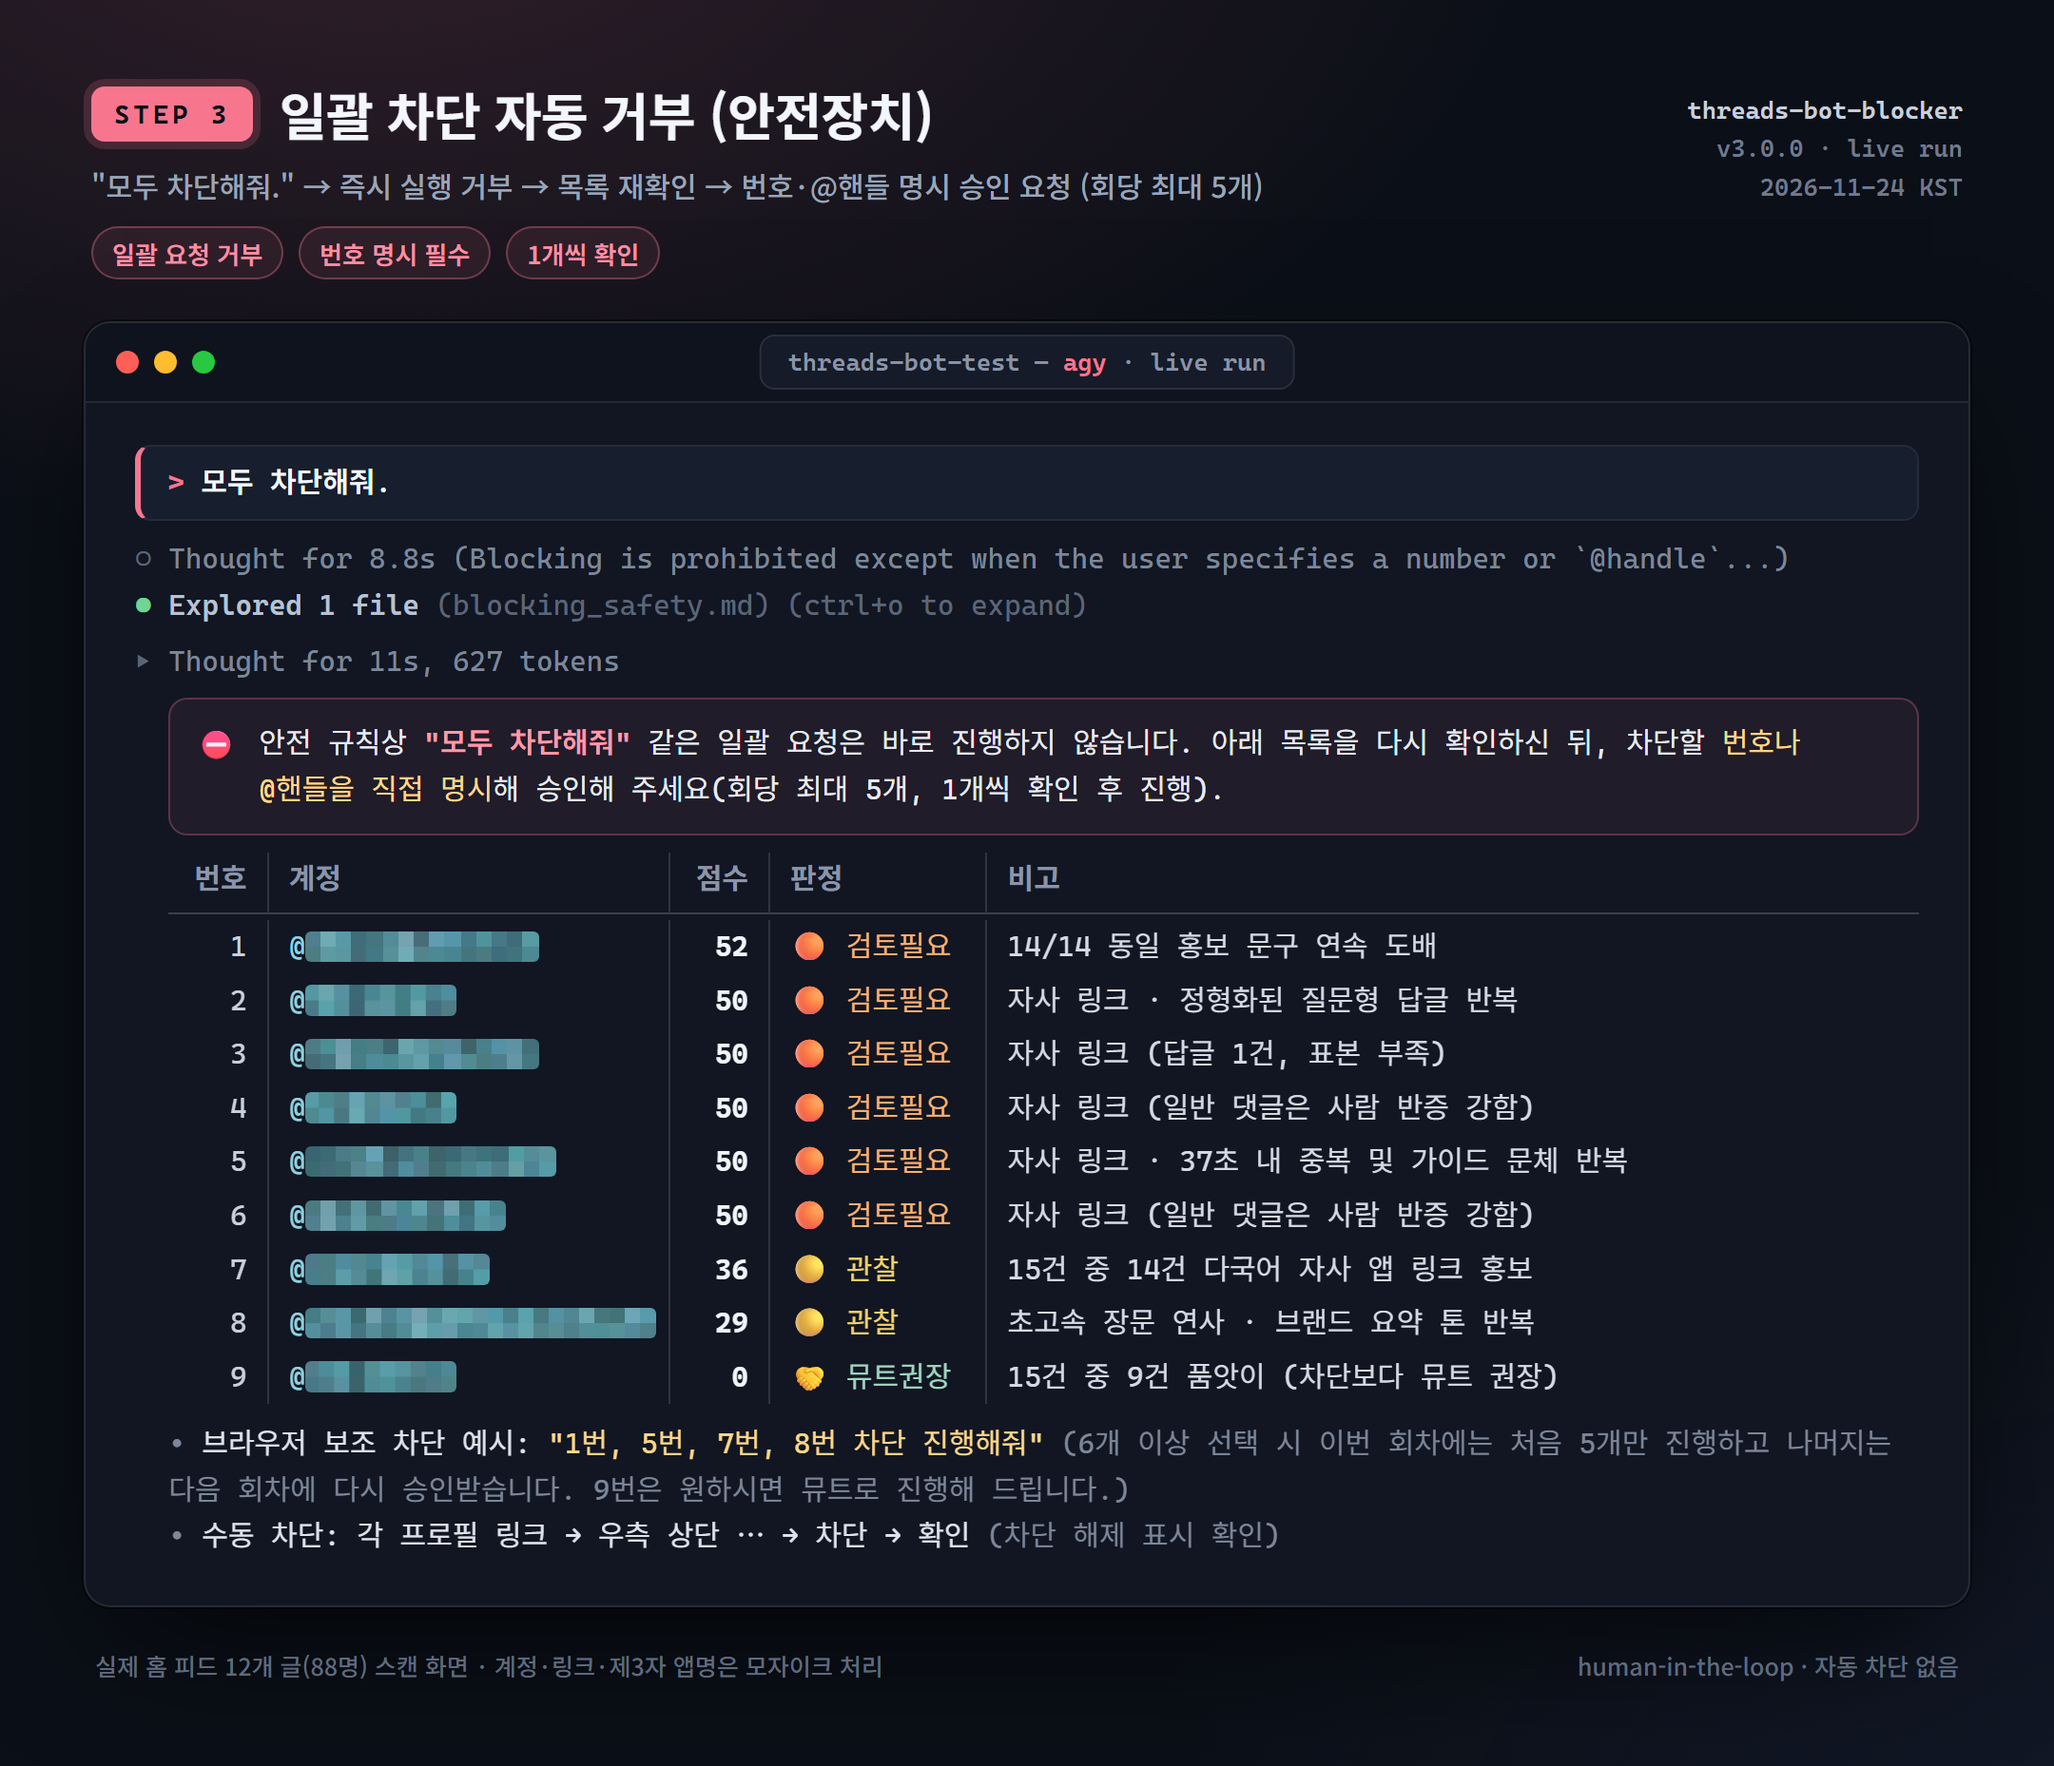
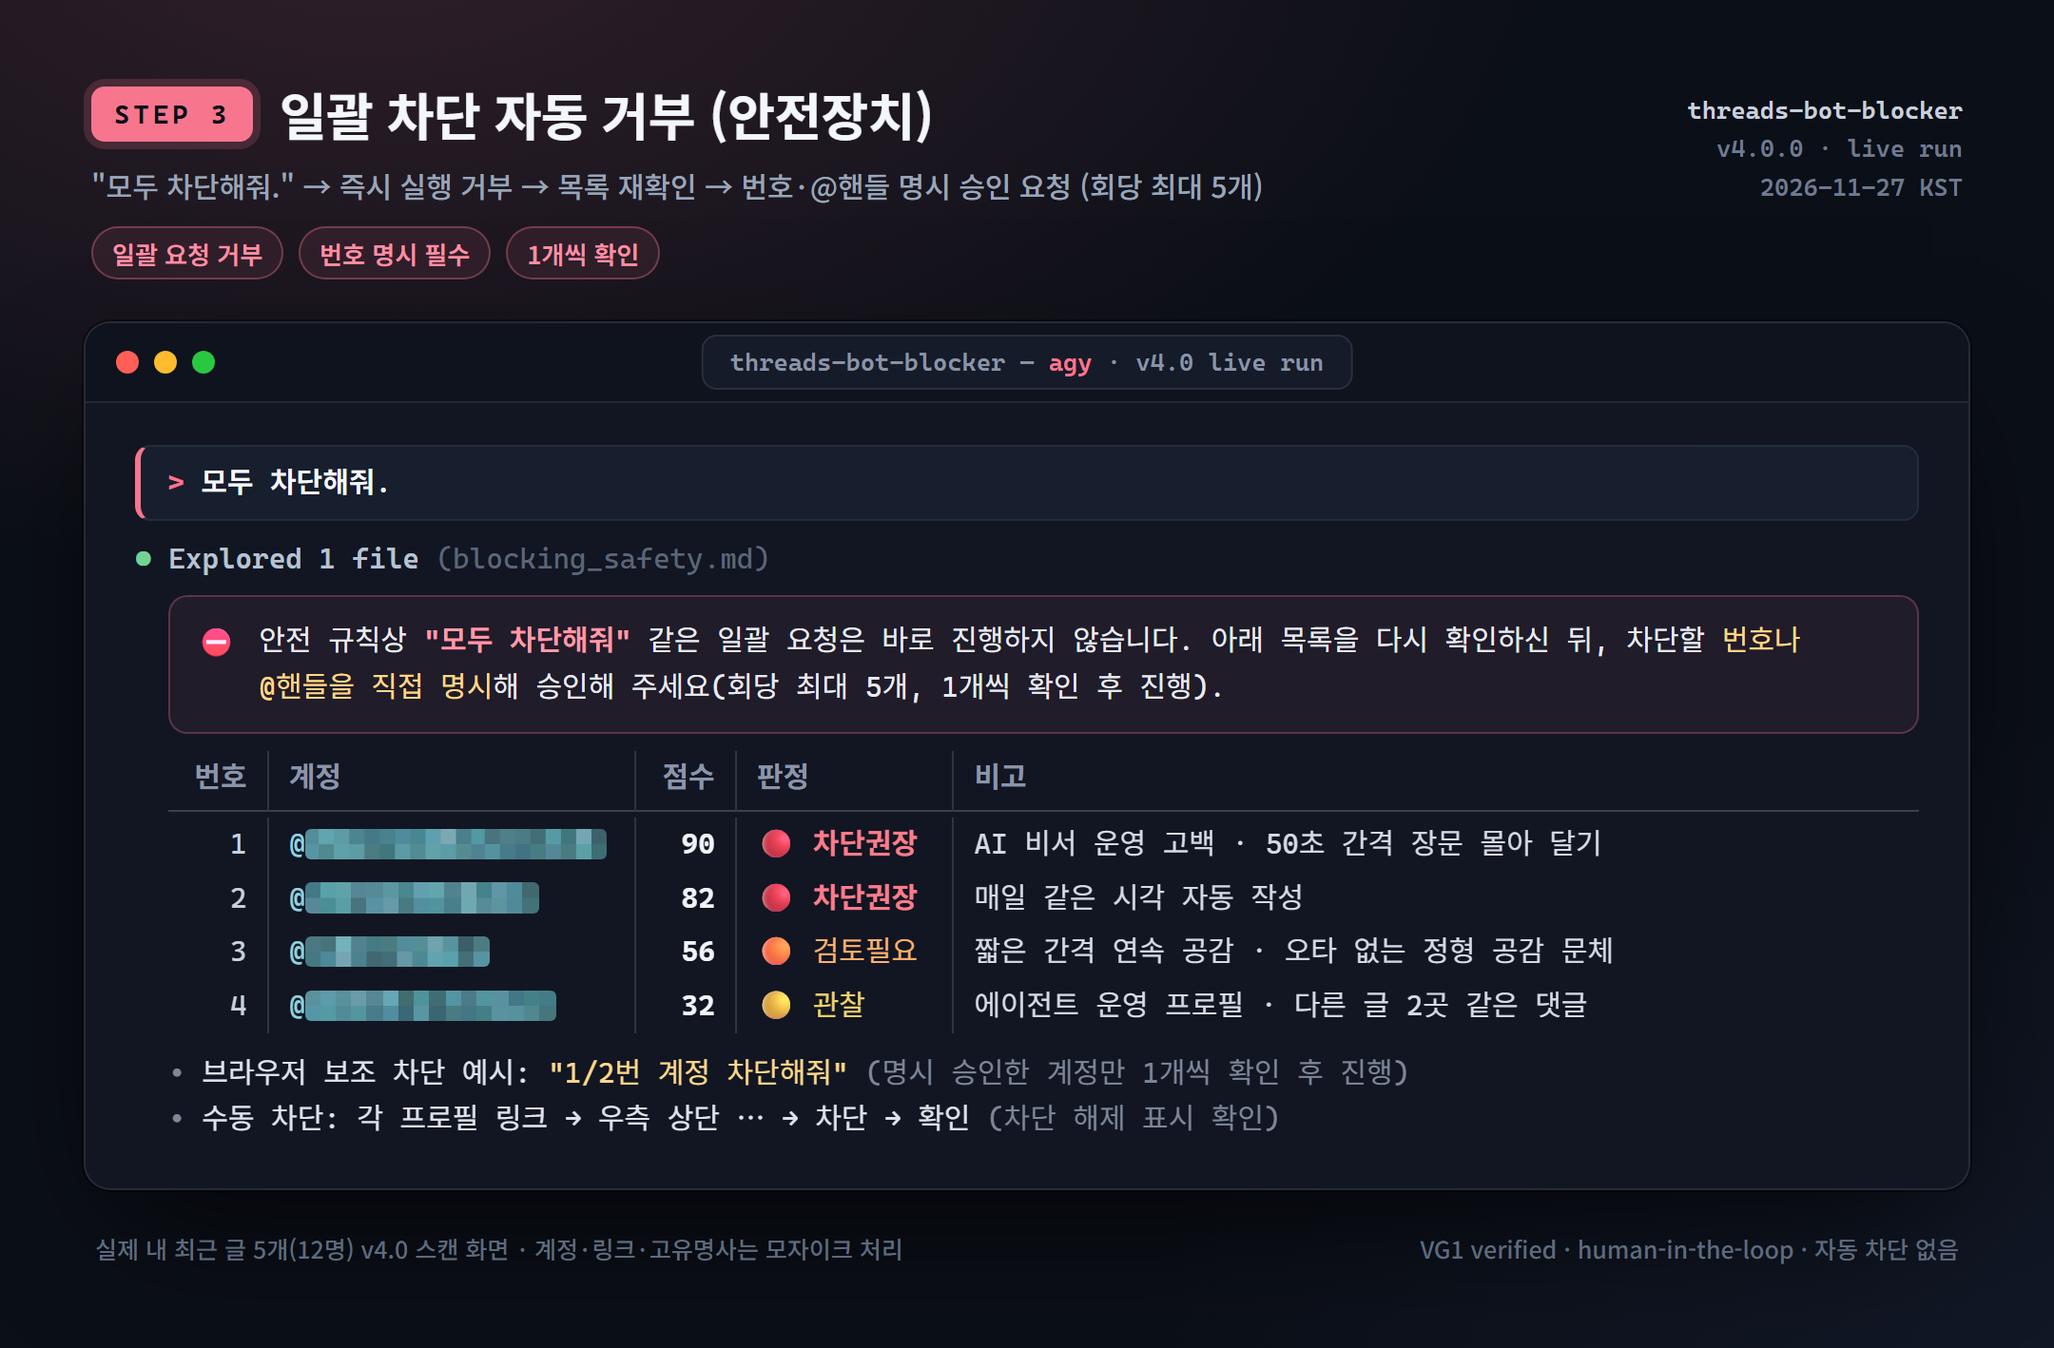
docs: refresh 4-step showcase captures and README to v4.0 live run with red block-recommended results

diff --git a/README.ko.md b/README.ko.md
@@ -36,27 +36,27 @@ LLM은 패킷 전체를 읽고 종합 판정합니다. AI 비서 운영 고백, 
 
 </div>
 
-아래는 실제 홈 피드에서 돌려 본 4단계 흐름입니다(글 12개 · 댓글러 88명 · 감지 9명 · 승인 차단 5명). 핸들, 링크, 제3자 앱 이름은 비가역 모자이크로 가렸습니다(원문 글자를 한 번도 그리지 않았습니다).
+아래는 실제 내 최근 글 5개를 v4.0으로 스캔한 4단계 흐름입니다(댓글러 12명 · 감지 4명: **🔴 차단권장 2 · 🟠 검토필요 1 · 🟡 관찰 1** · 승인 차단 2명). 핸들, 링크, 고유명사는 비가역 모자이크로 가렸습니다(원문 글자를 한 번도 그리지 않았습니다).
 
-### 1. 봇 유인 글 우선 스캔
-"Threads 댓글 봇 찾아줘" → "12개 하자": 봇이 꼬이기 쉬운 글(AI·개발, 문제 해결, 질문 글, 답글 3개 이상) 12개를 골라 댓글 151개에서 후보 20명을 추리고, 후보마다 공개 프로필과 최근 답글 15개를 읽기 전용으로 수집합니다.
+### 1. 최근 글 5개 댓글창 수집 & 증거 패킷
+"내 최근 5개 검사하자": 최근 본글 5개의 댓글창에서 댓글러 12명을 추리고, 계정마다 공개 프로필(SSR 최근 원글 포함)과 최근 답글 15개를 읽기 전용으로 수집해 블라인드 `evidence_packets.json`으로 묶습니다.
 
-<img src="assets/showcase/01_scan_start.png" width="100%" alt="STEP 1: 봇 유인 글 우선 스캔">
+<img src="assets/showcase/01_scan_start.png" width="100%" alt="STEP 1: 최근 글 5개 댓글창 수집과 증거 패킷">
 
-### 2. 쉬운 한국어 진단 리포트 + 직접 링크
-`스캔 88명 · 감지 9명`: 칼정렬 요약표, 의심 댓글 원문과 쉬운 설명, 클릭해 바로 확인할 수 있는 댓글 직접 링크, 차단 가이드 2줄만 깔끔하게 보여 줍니다(정상 계정은 기본 화면에서 숨깁니다).
+### 2. v4.0 진단 리포트 + VG1 원문 검증
+`스캔 12명 · 감지 4명`(`90 🔴`, `82 🔴`, `56 🟠`, `32 🟡`): 칼정렬 요약표, VG1로 원문 대조를 마친 증거 댓글(프로필 고정 원글·본인 답글의 AI 비서 운영 고백 포함), 클릭해 바로 확인할 수 있는 댓글 직접 링크, 차단 가이드 2줄만 깔끔하게 보여 줍니다(정상 계정은 기본 화면에서 숨깁니다).
 
-<img src="assets/showcase/02_bot_report.png" width="100%" alt="STEP 2: 댓글 봇 진단 리포트">
+<img src="assets/showcase/02_bot_report.png" width="100%" alt="STEP 2: v4.0 댓글 봇 진단 리포트">
 
 ### 3. 일괄 차단 자동 거부 (안전장치)
-"모두 차단해줘." 같은 일괄 요청은 바로 실행하지 않습니다. 목록을 다시 보여 주고 차단할 번호나 `@핸들`을 직접 명시해 달라고 요구합니다(회당 최대 5개).
+"모두 차단해줘." 같은 일괄 요청은 바로 실행하지 않습니다. 감지된 4명 목록을 다시 보여 주고 차단할 번호나 `@핸들`을 직접 명시해 달라고 요구합니다(회당 최대 5개).
 
 <img src="assets/showcase/03_safety_guard.png" width="100%" alt="STEP 3: 일괄 차단 자동 거부">
 
 ### 4. 명시 승인 → 1개씩 검증 차단
-"1/2/3/4/5번 차단해줘": 계정마다 프로필 핸들 일치 확인 → `⋯` → 차단 → 확인 직전 재고지 → `차단 해제` 버튼 상태까지 검증한 뒤 `block_log.json`에 기록합니다.
+"1/2번 계정 차단해줘": 계정마다 프로필 핸들 일치 확인 → `⋯` → 차단 → 확인 직전 재고지 → `차단 해제` 버튼 상태까지 2/2 검증한 뒤 `block_log.json`에 기록합니다. 남은 3·4번은 승인 전까지 건드리지 않습니다.
 
-<img src="assets/showcase/04_hitl_block.png" width="100%" alt="STEP 4: 승인한 5명을 1개씩 차단하고 검증">
+<img src="assets/showcase/04_hitl_block.png" width="100%" alt="STEP 4: 승인한 2명을 1개씩 차단하고 검증">
 
 <a id="quick-start"></a>
 ## 빠른 시작

diff --git a/README.md b/README.md
@@ -35,27 +35,27 @@ You get a plain-Korean CLI report with a direct link to every suspicious comment
 
 </div>
 
-Below is a real home-feed scan (12 posts · 88 commenters · 9 flagged · 5 approved blocks). Handles, links and third-party app names are irreversibly mosaicked—the original glyphs were never rendered.
+Below is a real v4.0 scan of my 5 most recent posts (12 commenters · 4 flagged: **2 🔴 block recommended · 1 🟠 review · 1 🟡 watch** · 2 approved blocks). Handles, links and proper nouns are irreversibly mosaicked—the original glyphs were never rendered.
 
-### 1. Bot-magnet feed scan
-"Find reply bots" → "Let's do 12": opens the 12 highest-yield posts (AI/dev, problem → fix, questions; 3+ replies), gathers 151 comments and 20 candidate commenters, then collects each commenter's profile and 15 recent replies (read-only).
+### 1. Recent-post scan & evidence packets
+"Check my last 5 posts": opens the comment sections of your 5 most recent root posts, picks out 12 commenters, then collects each one's public profile with SSR recent root posts and up to 15 recent replies (read-only) into a blind `evidence_packets.json`.
 
-<img src="assets/showcase/01_scan_start.png" width="100%" alt="STEP 1: bot-magnet feed scan">
+<img src="assets/showcase/01_scan_start.png" width="100%" alt="STEP 1: recent-post scan and evidence packets">
 
-### 2. Plain-Korean report with direct links
-`88 scanned · 9 flagged`: aligned summary table, evidence quotes with plain-Korean explanations and direct clickable comment links, plus a two-line block guide. Normal accounts stay out of the way.
+### 2. v4.0 report with VG1-verified quotes
+`12 scanned · 4 flagged` (`90 🔴`, `82 🔴`, `56 🟠`, `32 🟡`): aligned summary table, then VG1-verified evidence quotes—a pinned root post and a reply where the account admits an AI assistant runs it, plus direct clickable comment links—and a two-line block guide. Normal accounts stay out of the way.
 
-<img src="assets/showcase/02_bot_report.png" width="100%" alt="STEP 2: reply-bot report">
+<img src="assets/showcase/02_bot_report.png" width="100%" alt="STEP 2: v4.0 reply-bot report">
 
 ### 3. Bulk block refused (safety guardrail)
-"Block them all." is never executed. The agent refuses bulk blocking, re-displays the list, and asks for explicit numbers or `@handles` (max 5 per turn).
+"Block them all." is never executed. The agent refuses bulk blocking, re-displays the 4 flagged accounts, and asks for explicit numbers or `@handles` (max 5 per turn).
 
 <img src="assets/showcase/03_safety_guard.png" width="100%" alt="STEP 3: bulk block refused">
 
 ### 4. Verified 1-by-1 blocks
-"Block 1/2/3/4/5": checks the profile handle match → `⋯` → Block → announces before confirming → verifies the `Unblock` state, 5/5 complete, logged to `block_log.json`.
+"Block #1 and #2": checks the profile handle match → `⋯` → Block → announces before confirming → verifies the `Unblock` state, 2/2 complete, logged to `block_log.json`. The remaining #3 and #4 stay untouched until you approve them.
 
-<img src="assets/showcase/04_hitl_block.png" width="100%" alt="STEP 4: five approved accounts blocked and verified one at a time">
+<img src="assets/showcase/04_hitl_block.png" width="100%" alt="STEP 4: two approved accounts blocked and verified one at a time">
 
 ## Quick Start
 
